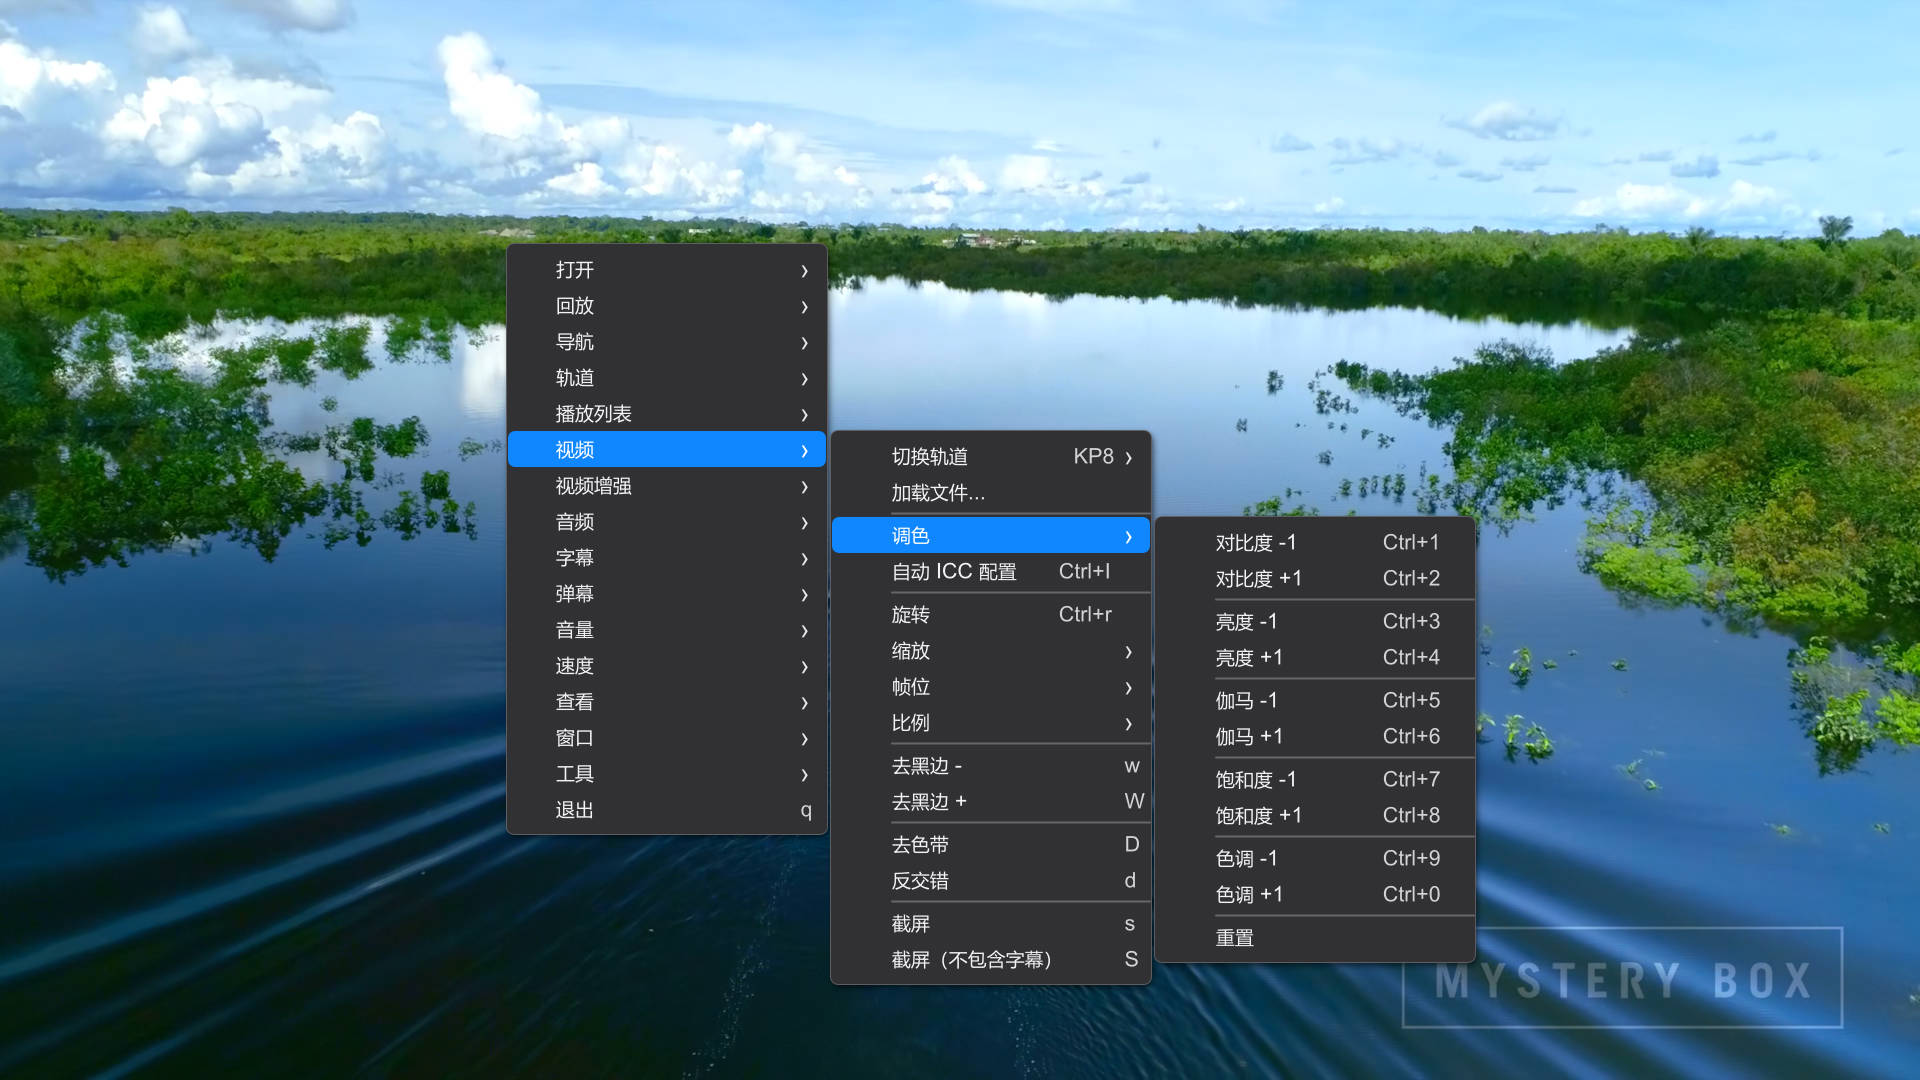
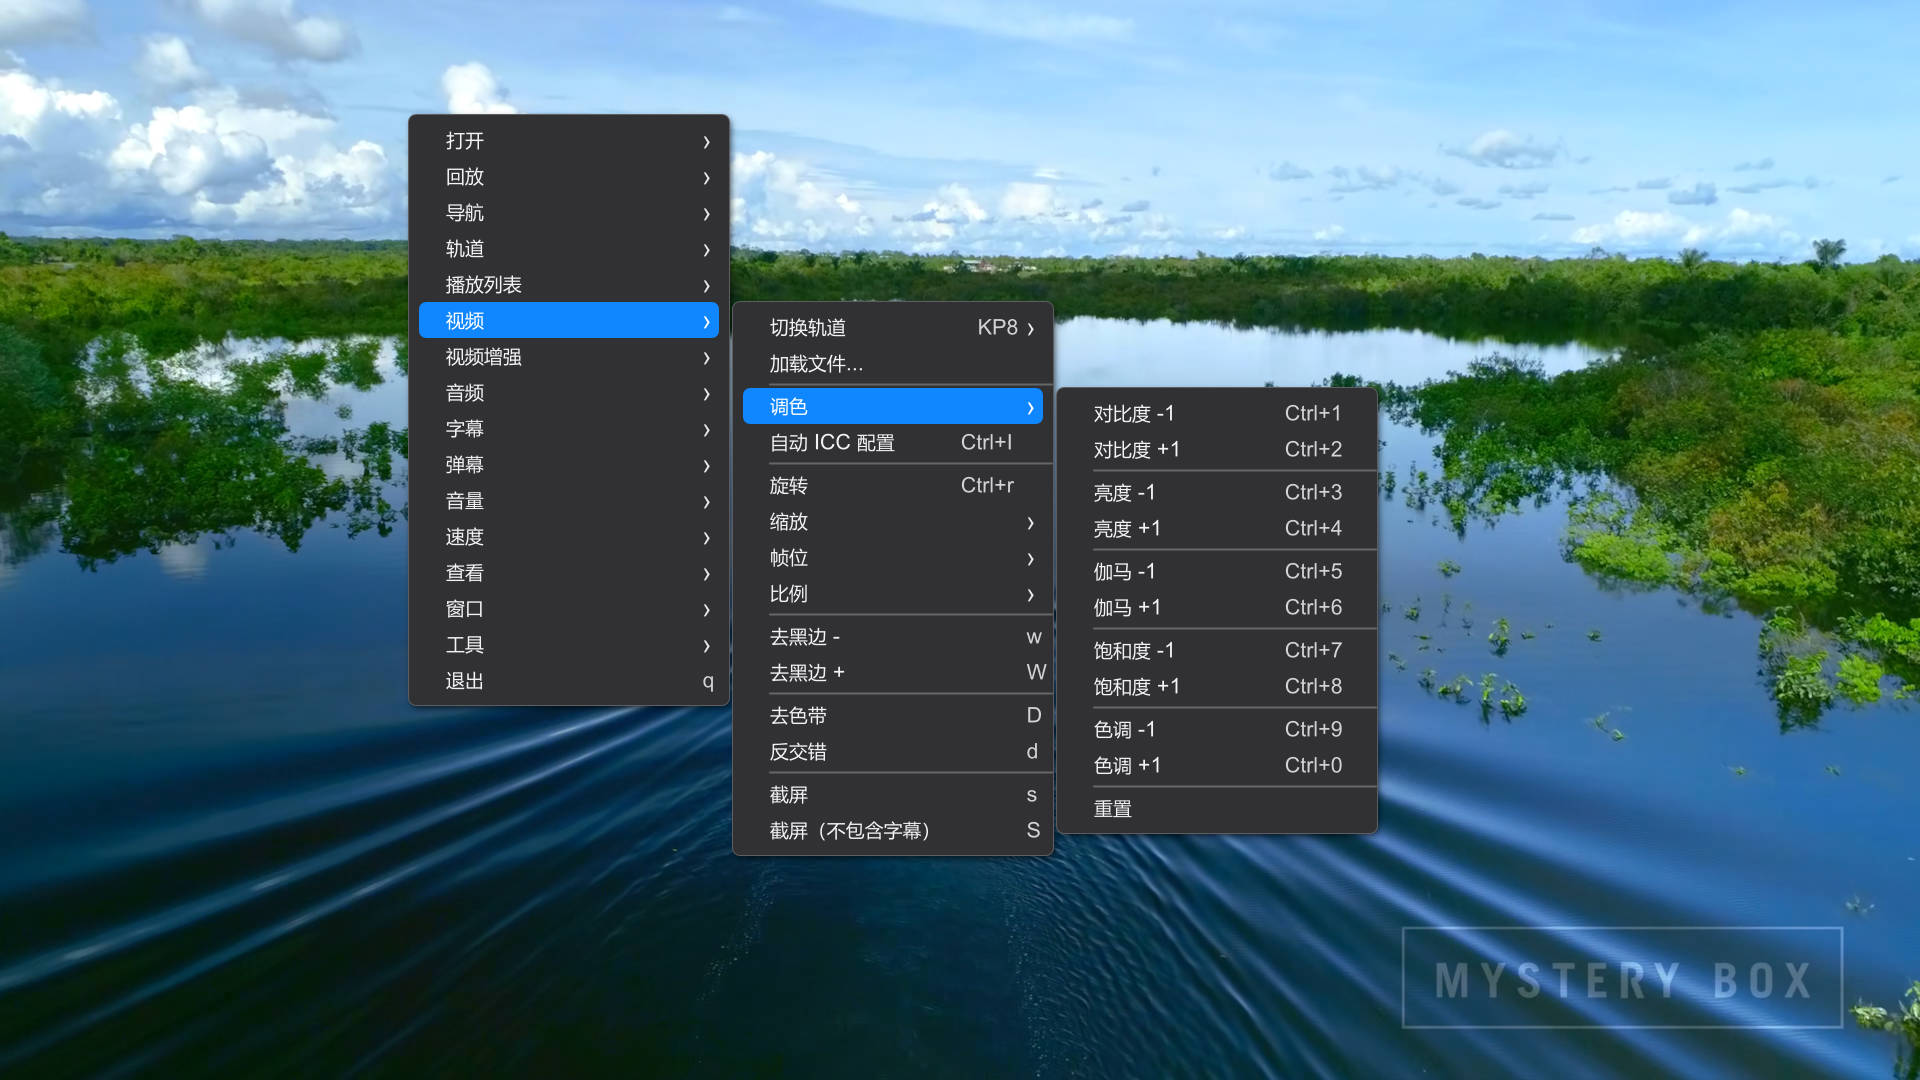
macos风格样式优化

diff --git a/doc/README.md b/doc/README.md
@@ -44,68 +44,70 @@ portable_config/script-opts/menu.conf
 
 ## `menu.conf` 参数
 
-| 参数                           |                   示例 | 作用                             |
-| ------------------------------ | ---------------------: | -------------------------------- |
-| `font_name`                    | `"Microsoft YaHei UI"` | 菜单字体                         |
-| `font_size`                    |                   `18` | 字号                             |
-| `bold`                         |                   `no` | 粗体                             |
-| `italic`                       |                   `no` | 斜体                             |
-| `row_height`                   |                   `36` | 普通行高                         |
-| `separator_height`             |                    `6` | 分隔线高度                       |
-| `padding_x`                    |                   `13` | 水平内边距                       |
-| `padding_y`                    |                    `7` | 垂直内边距                       |
-| `root_indent_chars`            |                  `1.5` | 一级菜单文字缩进                 |
-| `child_indent_chars`           |                    `2` | 子菜单文字缩进                   |
-| `background`                   |              `#303030` | 菜单背景色                       |
-| `border`                       |              `#6A6A6A` | 外框颜色                         |
-| `border_width`                 |                    `1` | 外框宽度                         |
-| `corner_radius`                |                    `7` | 菜单圆角                         |
-| `text`                         |              `#F2F2F2` | 普通文字                         |
-| `disabled_text`                |              `#888888` | 禁用文字                         |
-| `hover_bg`                     |              `#505050` | Hover 背景                       |
-| `hover_text`                   |              `#FFFFFF` | Hover 文字                       |
-| `hover_border`                 |            `#00000000` | Hover 边框色                     |
-| `hover_border_width`           |                    `0` | Hover 边框宽度                   |
-| `hover_corner_radius`          |                    `0` | Hover 圆角                       |
-| `shortcut`                     |              `#D6D6D6` | 快捷键颜色                       |
-| `hover_shortcut`               |              `#FFFFFF` | Hover 快捷键                     |
-| `shortcut_gap`                 |                    `6` | 快捷键间距                       |
-| `arrow`                        |              `#EEEEEE` | 箭头颜色                         |
-| `arrow_alpha`                  |                    `0` | 箭头透明度                       |
-| `hover_arrow`                  |              `#FFFFFF` | Hover 箭头                       |
-| `hover_arrow_alpha`            |                    `0` | Hover 箭头透明度                 |
-| `arrow_width`                  |                   `18` | 箭头区域宽度                     |
-| `arrow_font_size`              |                   `30` | 箭头字号                         |
-| `separator`                    |              `#6A6A6A` | 分隔线颜色                       |
-| `check`                        |              `#F2F2F2` | 勾选颜色                         |
-| `shadow`                       |              `#000000` | 阴影颜色                         |
-| `bg_alpha`                     |                    `0` | 背景透明度                       |
-| `shadow_alpha`                 |                   `95` | 阴影透明度                       |
-| `shadow_blur`                  |                    `7` | 阴影模糊                         |
-| `submenu_gap`                  |                    `4` | 子菜单间距                       |
-| `screen_margin`                |                    `6` | 屏幕边距                         |
-| `min_width`                    |                  `320` | 最小宽度                         |
-| `max_width`                    |                  `640` | 最大宽度                         |
-| `max_visible_rows`             |                    `0` | 可见行限制；`0` 不按固定行数截断 |
-| `click_to_show_submenus`       |                   `no` | 是否点击后展开                   |
-| `hide_root_separators`         |                  `yes` | 隐藏一级菜单内部的分隔线         |
-| `playlist_header_indent_chars` |                    `1` | 播放列表顶部计数缩进             |
-| `menu_z`                       |                `10000` | 菜单 OSD 层级                    |
-| `suppress_osc`                 |                  `yes` | 菜单期间抑制 OSC                 |
-| `suppress_mouse_move`          |                  `yes` | 菜单期间抑制普通鼠标移动交互     |
-| `modal_mask`                   |                  `yes` | 启用模态遮罩                     |
-| `modal_mask_alpha`             |                  `255` | 遮罩透明度                       |
-| `modal_z`                      |              `1000000` | 模态层级                         |
-| `scroll_threshold`             |                 `0.80` | 超过窗口高度该比例后启用滚动     |
-| `scrollbar_width`              |                    `5` | 滚动条宽度                       |
-| `scrollbar_gap`                |                    `0` | 滚动条与内容间距                 |
-| `scrollbar_right_gap`          |                    `1` | 右侧边距                         |
-| `scrollbar_min_thumb`          |                   `20` | 滑块最小高度                     |
-| `scrollbar_track`              |              `#555555` | 滚动轨道颜色                     |
-| `scrollbar_thumb`              |              `#2A2A2A` | 滚动滑块颜色                     |
-| `scrollbar_track_alpha`        |                   `70` | 轨道透明度                       |
-| `scrollbar_thumb_alpha`        |                  `145` | 滑块透明度                       |
-| `scroll_step`                  |                    `1` | 每次滚动步长                     |
+| 参数                           |                   示例 | 作用                                                 |
+| ------------------------------ | ---------------------: | ---------------------------------------------------- |
+| `font_name`                    | `"Microsoft YaHei UI"` | 菜单字体                                             |
+| `font_size`                    |                   `18` | 字号                                                 |
+| `bold`                         |                   `no` | 粗体                                                 |
+| `italic`                       |                   `no` | 斜体                                                 |
+| `row_height`                   |                   `36` | 普通行高                                             |
+| `separator_height`             |                    `6` | 分隔线高度                                           |
+| `padding_x`                    |                   `13` | 水平内边距                                           |
+| `padding_y`                    |                    `7` | 垂直内边距                                           |
+| `root_indent_chars`            |                  `1.5` | 一级菜单文字缩进                                     |
+| `child_indent_chars`           |                    `2` | 子菜单文字缩进                                       |
+| `background`                   |              `#303030` | 菜单背景色                                           |
+| `border`                       |              `#6A6A6A` | 外框颜色                                             |
+| `border_width`                 |                    `1` | 外框宽度                                             |
+| `corner_radius`                |                    `7` | 菜单圆角                                             |
+| `text`                         |              `#F2F2F2` | 普通文字                                             |
+| `disabled_text`                |              `#888888` | 禁用文字                                             |
+| `hover_bg`                     |              `#505050` | Hover 背景                                           |
+| `hover_text`                   |              `#FFFFFF` | Hover 文字                                           |
+| `hover_border`                 |            `#00000000` | Hover 边框色                                         |
+| `hover_border_width`           |                    `0` | Hover 边框宽度                                       |
+| `hover_corner_radius`          |                    `0` | Hover 圆角                                           |
+| `hover_margin_x`               |                    `1` | 控制 Hover 背景相对菜单外框左右边缘的留白            |
+| `hover_margin_y`               |                    `0` | 控制上下留白。它们不会改变文字、快捷键和箭头的位置。 |
+| `shortcut`                     |              `#D6D6D6` | 快捷键颜色                                           |
+| `hover_shortcut`               |              `#FFFFFF` | Hover 快捷键                                         |
+| `shortcut_gap`                 |                    `6` | 快捷键间距                                           |
+| `arrow`                        |              `#EEEEEE` | 箭头颜色                                             |
+| `arrow_alpha`                  |                    `0` | 箭头透明度                                           |
+| `hover_arrow`                  |              `#FFFFFF` | Hover 箭头                                           |
+| `hover_arrow_alpha`            |                    `0` | Hover 箭头透明度                                     |
+| `arrow_width`                  |                   `18` | 箭头区域宽度                                         |
+| `arrow_font_size`              |                   `30` | 箭头字号                                             |
+| `separator`                    |              `#6A6A6A` | 分隔线颜色                                           |
+| `check`                        |              `#F2F2F2` | 勾选颜色                                             |
+| `shadow`                       |              `#000000` | 阴影颜色                                             |
+| `bg_alpha`                     |                    `0` | 背景透明度                                           |
+| `shadow_alpha`                 |                   `95` | 阴影透明度                                           |
+| `shadow_blur`                  |                    `7` | 阴影模糊                                             |
+| `submenu_gap`                  |                    `4` | 子菜单间距                                           |
+| `screen_margin`                |                    `6` | 屏幕边距                                             |
+| `min_width`                    |                  `320` | 最小宽度                                             |
+| `max_width`                    |                  `640` | 最大宽度                                             |
+| `max_visible_rows`             |                    `0` | 可见行限制；`0` 不按固定行数截断                     |
+| `click_to_show_submenus`       |                   `no` | 是否点击后展开                                       |
+| `hide_root_separators`         |                  `yes` | 隐藏一级菜单内部的分隔线                             |
+| `playlist_header_indent_chars` |                    `1` | 播放列表顶部计数缩进                                 |
+| `menu_z`                       |                `10000` | 菜单 OSD 层级                                        |
+| `suppress_osc`                 |                  `yes` | 菜单期间抑制 OSC                                     |
+| `suppress_mouse_move`          |                  `yes` | 菜单期间抑制普通鼠标移动交互                         |
+| `modal_mask`                   |                  `yes` | 启用模态遮罩                                         |
+| `modal_mask_alpha`             |                  `255` | 遮罩透明度                                           |
+| `modal_z`                      |              `1000000` | 模态层级                                             |
+| `scroll_threshold`             |                 `0.80` | 超过窗口高度该比例后启用滚动                         |
+| `scrollbar_width`              |                    `5` | 滚动条宽度                                           |
+| `scrollbar_gap`                |                    `0` | 滚动条与内容间距                                     |
+| `scrollbar_right_gap`          |                    `1` | 右侧边距                                             |
+| `scrollbar_min_thumb`          |                   `20` | 滑块最小高度                                         |
+| `scrollbar_track`              |              `#555555` | 滚动轨道颜色                                         |
+| `scrollbar_thumb`              |              `#2A2A2A` | 滚动滑块颜色                                         |
+| `scrollbar_track_alpha`        |                   `70` | 轨道透明度                                           |
+| `scrollbar_thumb_alpha`        |                  `145` | 滑块透明度                                           |
+| `scroll_step`                  |                    `1` | 每次滚动步长                                         |
 
 ## 组件职责
 
